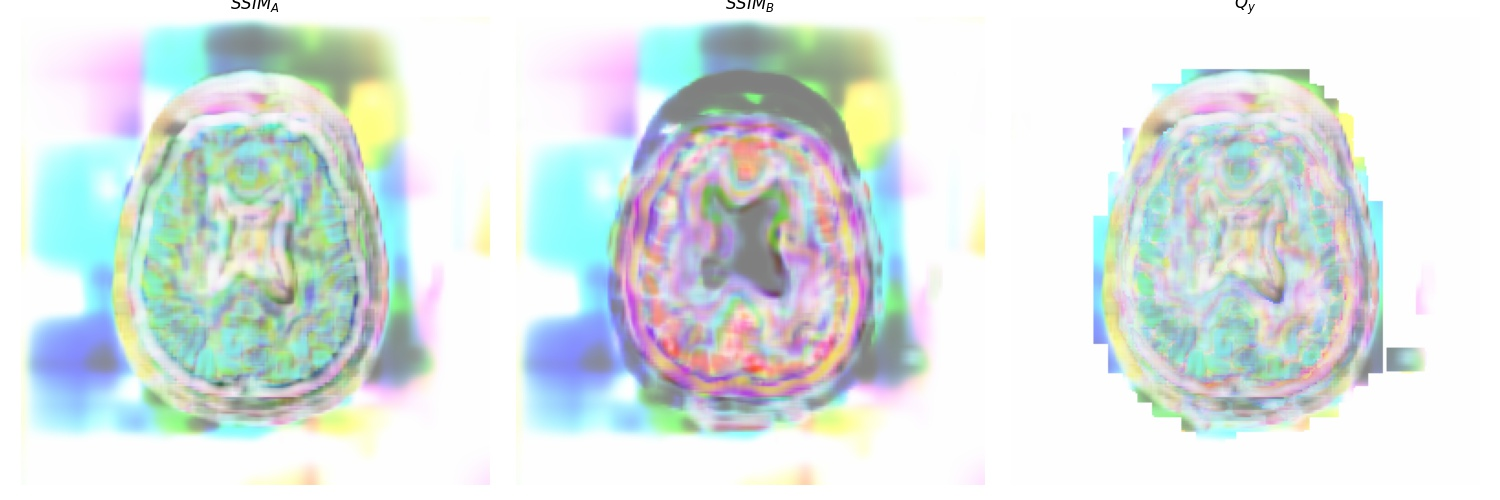
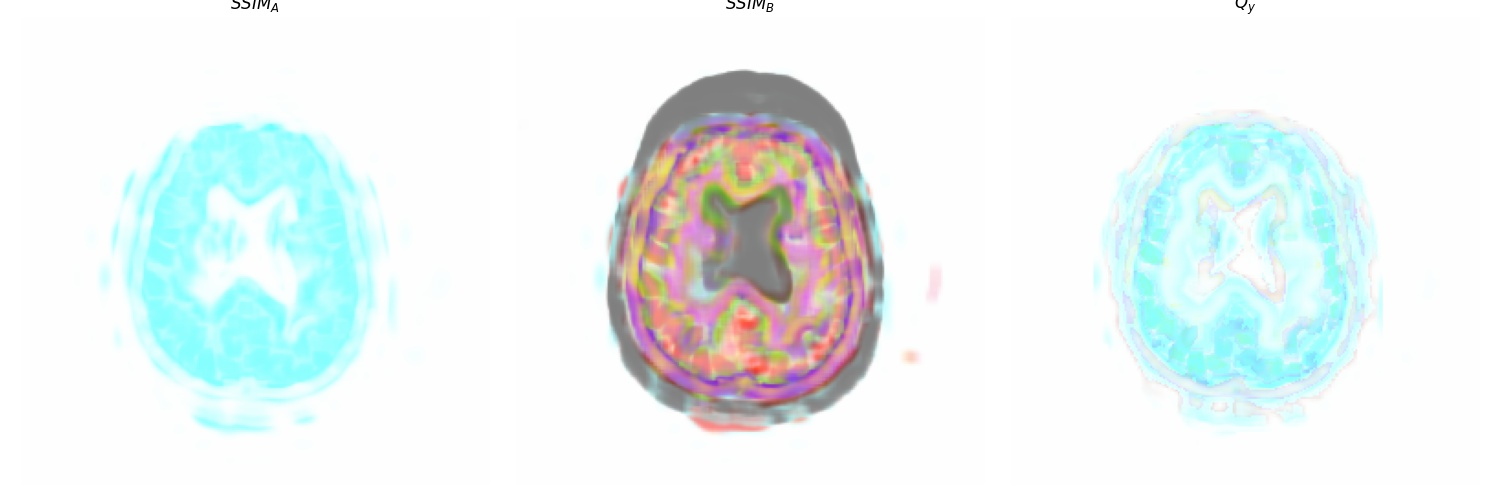
update wavelet defaults

diff --git a/evaluation.py b/evaluation.py
@@ -271,40 +271,40 @@ if __name__ == "__main__":
             except:
                 pass
 
-    # if False:
-    import pandas as pd
+    if False:
+        import pandas as pd
 
-    data = pd.read_csv("results/wavelet-comparison.csv")
-    data["Sum"] = data.NMI + data.Qy + data.Qc
-    data["NormSum"] = (
-        ((data.NMI - data.NMI.min()) / (data.NMI.max() - data.NMI.min()))
-        + ((data.Qy - data.Qy.min()) / (data.Qy.max() - data.Qy.min()))
-        + ((data.Qc - data.Qc.min()) / (data.Qc.max() - data.Qc.min()))
-    )
+        data = pd.read_csv("results/wavelet-comparison.csv")
+        data["Sum"] = data.NMI + data.Qy + data.Qc
+        data["NormSum"] = (
+            ((data.NMI - data.NMI.min()) / (data.NMI.max() - data.NMI.min()))
+            + ((data.Qy - data.Qy.min()) / (data.Qy.max() - data.Qy.min()))
+            + ((data.Qc - data.Qc.min()) / (data.Qc.max() - data.Qc.min()))
+        )
 
-    sort_by = ["NMI", "Qy", "Qc", "Sum", "NormSum"]
-    best = pd.concat([data.sort_values(by=by, ascending=False)[:5] for by in sort_by])
+        sort_by = ["NMI", "Qy", "Qc", "Sum", "NormSum"]
+        best = pd.concat([data.sort_values(by=by, ascending=False)[:5] for by in sort_by])
 
-    for j, (A, B) in enumerate(pairs):
-        if len(A.shape) == 2:
-            A = A[..., None]
-        fig, ax = plt.subplots(5, 5, figsize=(20, 20))
-        for i, (_, row) in enumerate(best.iterrows()):
-            axi = ax[i // 5, i % 5]
-            if i % 5 == 0:
-                axi.set_ylabel(sort_by[i // 5], fontsize=40)
-            axi.imshow(wavelet_fuse([A, B], kernel_size=row["size"], wavelet=row["wavelet"]))
-            axi.set_title(row["wavelet"] + ", " + str(row["size"]), y=-0.01, color="white")
-            axi.tick_params(
-                axis="both",
-                which="both",
-                left=False,
-                right=False,
-                bottom=False,
-                top=False,
-                labelleft=False,
-                labelbottom=False,
-            )
-        plt.tight_layout()
-        plt.savefig(f"results/wavelet-comparison{j}.pdf")
+        for j, (A, B) in enumerate(pairs):
+            if len(A.shape) == 2:
+                A = A[..., None]
+            fig, ax = plt.subplots(5, 5, figsize=(20, 20))
+            for i, (_, row) in enumerate(best.iterrows()):
+                axi = ax[i // 5, i % 5]
+                if i % 5 == 0:
+                    axi.set_ylabel(sort_by[i // 5], fontsize=40)
+                axi.imshow(wavelet_fuse([A, B], kernel_size=row["size"], wavelet=row["wavelet"]))
+                axi.set_title(row["wavelet"] + ", " + str(row["size"]), y=-0.01, color="white")
+                axi.tick_params(
+                    axis="both",
+                    which="both",
+                    left=False,
+                    right=False,
+                    bottom=False,
+                    top=False,
+                    labelleft=False,
+                    labelbottom=False,
+                )
+            plt.tight_layout()
+            plt.savefig(f"results/wavelet-comparison{j}.pdf")
 

diff --git a/wavelet_fuse.py b/wavelet_fuse.py
@@ -49,13 +49,16 @@ WAVELET_CHOICES = [
 
 
 def decision_map(img1, img2, ks):
+    # maximum filter is separable so we perform two 1D filters in sequence
     max1 = maximum_filter1d(maximum_filter1d(img1, axis=1, size=ks, mode="mirror"), axis=2, size=ks, mode="mirror")
     max2 = maximum_filter1d(maximum_filter1d(img2, axis=1, size=ks, mode="mirror"), axis=2, size=ks, mode="mirror")
     return max1 > max2
 
 
 def majority_filter(map, ks):
-    return box_filter(map.T, int((ks - 1) / 2)).T > (ks ** 2) / 2
+    # because the the map is binary, comparing the sum with the area of the kernel is equivalent to majority vote
+    radius = int((ks - 1) / 2)
+    return box_filter(map.T, radius).T > (ks ** 2) / 2
 
 
 def fuse(img1, img2, ks=5):
@@ -68,7 +71,7 @@ def fuse(img1, img2, ks=5):
 
 
 @timeout(error_message="Wavelet fusion timed out. You probably need a larger kernel size for this wavelet")
-def fuse_images(images, kernel_size=3, wavelet="db2", max_depth=999):
+def fuse_images(images, kernel_size=37, wavelet="sym13", max_depth=999):
     # ensure images have the right shape for the following operations
     for i in range(2):
         if len(images[i].shape) < 3:
